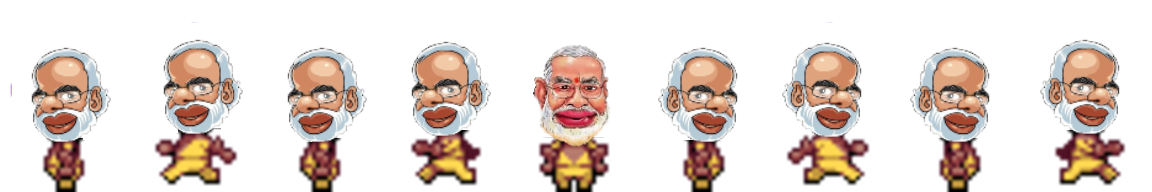
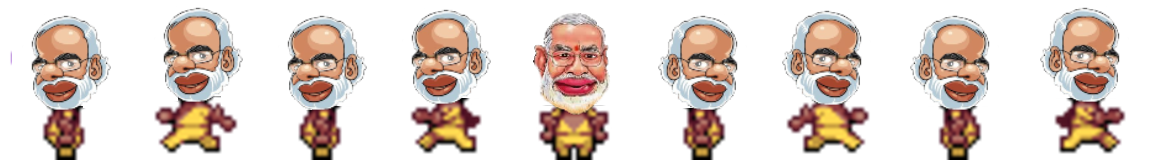
added collision between player and covid

diff --git a/game/game.js b/game/game.js
@@ -14,8 +14,8 @@ function preload() {
     game.load.image('backgroung', '../assets/Game_background.png');
     game.load.image('covid', '../assets/covid.png');
     game.load.image('sanitizer','../assets/sanitizer.png');
-    game.load.spritesheet('modi_avatar', '../assets/modi1152.png', 127, 190);
-    game.load.spritesheet('biden_avatar', '../assets/biden1152.png', 127, 190);
+    game.load.spritesheet('modi_avatar', '../assets/modi1152.png', 127, 155);
+    game.load.spritesheet('biden_avatar', '../assets/biden11521.png', 127, 155);
     game.load.atlasJSONHash('bat', '../assets/bat.png', '../assets/bat.json');
     game.load.image('spray', '../assets/spray.png');
     game.load.audio('spraySound', '../assets/SoundEffects/spray-sound.mp3');
@@ -30,6 +30,7 @@ var jumpTimer = 0;
 var facing='';
 var sanitizer;
 var covid;
+var coronaGroup;
 var spray;
 var vaccine;
 var bat;
@@ -86,8 +87,9 @@ function create(){
 
   biden_image.animations.play('dance_biden', 30, true);
   modi_image.animations.play('dance_modi', 7, true);
-  biden_image.events.onInputDown.add(selectCharacter);
-  modi_image.events.onInputDown.add(selectCharacter);
+  startGame();
+  //biden_image.events.onInputDown.add(selectCharacter);
+  //modi_image.events.onInputDown.add(selectCharacter);
 
   game.physics.arcade.enable(biden_image);
   game.physics.arcade.enable(modi_image);
@@ -189,55 +191,59 @@ function startGame(item, pointer) {
       player = game.add.sprite(100, 350, 'modi_avatar');
     }
 
-    game.physics.enable(player, Phaser.Physics.ARCADE);
-
-    player.body.bounce.y = 0.2;
+    covid = game.add.group();
+    covid.enableBody = true;
+    for (var i = 1; i < 10; i++)
+    {
+        var c = covid.create(i*900, 390, 'covid');
+        c.body.setCircle(45);
+        c.body.allowGravity = false;
+    }
+    createBats();
+    createCoronaVirus();
+    game.physics.enable([player,covid, coronaGroup], Phaser.Physics.ARCADE);
     player.body.collideWorldBounds = true;
-    player.body.setSize(38, 200, 4, 16);
+    player.body.setSize(127, 155, 4, 5);
     player.body.tilePadding.set(32);
 
     player.animations.add('left', [0, 1, 2, 3], 10, true);
     player.animations.add('turn', [4], 20, true);
     player.animations.add('right', [5, 6, 7, 8], 10, true);
 
-    createBats();
-    createCoronaVirus();
+
+
     createHealthBar();
+    createSanitizers();
+    createVaccine();
 
     game.camera.follow(player);
     cursors = game.input.keyboard.createCursorKeys();
     sprayButton = game.input.keyboard.addKey(Phaser.Keyboard.SPACEBAR);
-
-    sanitizer = game.add.group();
-    sanitizer.enableBody = true;
-    for (var i = 1; i < 5; i++)
-    {
-        var s = sanitizer.create(i*600, 150, 'sanitizer');
-        s.body.allowGravity = false;
-    }
-
-    vaccine = game.add.group();
-    vaccine.enableBody = true;
-    for (var i = 1; i < 5; i++)
-    {
-        var s = vaccine.create(i*700, 150, 'vaccine');
-        s.body.allowGravity = false;
-    }
-
-    covid = game.add.group();
-    covid.enableBody = true;
-    for (var i = 1; i < 10; i++)
-    {
-        var c = covid.create(i*900, 350, 'covid');
-        c.body.allowGravity = false;
-    }
 
     spray = game.add.weapon(10, 'spray');
     spraySound = game.add.audio('spraySound');
     doSpray();
 }
 
+function createSanitizers(){
+  sanitizer = game.add.group();
+  sanitizer.enableBody = true;
+  for (var i = 1; i < 10; i++)
+  {
+      var s = sanitizer.create(i*600, 150, 'sanitizer');
+      s.body.allowGravity = false;
+  }
+}
 
+function createVaccine(){
+  vaccine = game.add.group();
+  vaccine.enableBody = true;
+  for (var i = 1; i < 5; i++)
+  {
+      var s = vaccine.create(i*900, 150, 'vaccine');
+      s.body.allowGravity = false;
+  }
+}
 
 function update() {
   if(player)
@@ -248,7 +254,7 @@ function update() {
       {
           player.body.velocity.x = -150;
           spray.bulletAngleOffset = 180;
-          spray.trackSprite(player, -30, 140, true);
+          spray.trackSprite(player, -30, 110, true);
 
           if (facing != 'left')
           {
@@ -260,7 +266,7 @@ function update() {
       {
           player.body.velocity.x = 150;
           spray.bulletAngleOffset = 0;
-          spray.trackSprite(player, 150, 140, true);
+          spray.trackSprite(player, 150, 110, true);
           if (facing != 'right')
           {
               player.animations.play('right');
@@ -293,13 +299,14 @@ function update() {
       }
       if (cursors.up.isDown && player.body.onFloor() && game.time.now > jumpTimer)
       {
-          player.body.velocity.y = -250;
+          player.body.velocity.y = -280;
           jumpTimer = game.time.now + 750;
       }
       game.physics.arcade.overlap(sanitizer, player, sanitizerCollisionHandler, null, this);
       game.physics.arcade.overlap(vaccine, player, vaccineCollisionHandler, null, this);
       game.physics.arcade.collide(spray.bullets, covid, collisionHandler);
       game.physics.arcade.collide(player, covid, playerCoronaCollisionHandler);
+      game.physics.arcade.collide(player, coronaGroup, playerCoronaCollisionHandler);
   }
 
 }
@@ -328,6 +335,9 @@ function playerCoronaCollisionHandler(player, covid)
 
   if(currentHealth < 250) {
        setBarColor('#fc9802');
+  }
+  if(currentHealth == 0 ){
+    player.body.collideWorldBounds = false;
   }
   covid.kill();
 }
@@ -389,10 +399,10 @@ function sanitizerCollisionHandler (player, sanitizer ) {
     doSpray();
 }
 
-function render() {
-  // game.debug.text(game.time.physicsElapsed, 32, 32);
-  // game.debug.body(player);
-  // game.debug.bodyInfo(player, 16, 24);
-  // game.debug.cameraInfo(game.camera, 32, 32);
 
+function render() {
+  // game.debug.body(player);
+  // covid.forEachAlive(function(b){
+  //   game.debug.body(b);
+  // });
 }

diff --git a/game/index.html b/game/index.html
@@ -15,7 +15,7 @@
 <script src="https://examples.phaser.io/_site/phaser/filesaver.js" type="text/javascript"></script>
 <script src="https://examples.phaser.io/_site/phaser/embed.js" type="text/javascript"></script>
 
-
+<!-- <script type="text/javascript" src="covid.js"></script> -->
 
 <script type="text/javascript" src="spray.js"></script>
 <script type="text/javascript" src="bat.js"></script>

diff --git a/game/spray.js b/game/spray.js
@@ -25,6 +25,6 @@ spray.onFire.add(function(){
 //  Tell the Weapon to track the 'player' Sprite
 //  With no offsets from the position
 //  But the 'true' argument tells the weapon to track sprite rotation
-spray.trackSprite(player, 150, 140, true);
+spray.trackSprite(player, 150, 110, true);
 
 }
